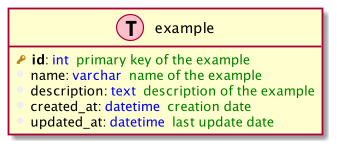
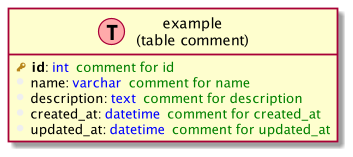
add table comment

diff --git a/driver/mysql_test.go b/driver/mysql_test.go
@@ -1,0 +1,29 @@
+package driver
+
+import (
+	"testing"
+
+	"github.com/stretchr/testify/assert"
+)
+
+func TestMysql_Parse(t *testing.T) {
+	ddl := `create table user (
+		id int(11) not null auto_increment,
+		name varchar(255) not null comment '名称',
+		primary key (id)
+	) comment '用户表' engine=innodb default charset=utf8 `
+
+	d := &Mysql{}
+	tables, err := d.Parse(ddl)
+	assert.Nil(t, err)
+	assert.Equal(t, 1, len(tables))
+	assert.Equal(t, 2, len(tables[0].Columns))
+	assert.Equal(t, "user", tables[0].Name)
+	assert.Equal(t, `用户表`, tables[0].Comment)
+	assert.Equal(t, "id", tables[0].Columns[0].Name)
+	assert.Empty(t, tables[0].Columns[0].Comment)
+	assert.True(t, tables[0].Columns[0].IsPrimaryKey)
+	assert.Equal(t, "name", tables[0].Columns[1].Name)
+	assert.Equal(t, `"名称"`, tables[0].Columns[1].Comment)
+	assert.False(t, tables[0].Columns[1].IsPrimaryKey)
+}

diff --git a/driver/mysql.go b/driver/mysql.go
@@ -31,6 +31,12 @@ func (m *Mysql) Parse(ddl string) ([]Table, error) {
 			Columns: make([]Column, 0, len(createTable.Columns)),
 		}
 
+		for _, option := range createTable.Options {
+			if option.Type == sqlparser.TableOptionComment {
+				table.Comment = option.StrValue
+			}
+		}
+
 		var primaryKeyName string
 		for _, constraint := range createTable.Constraints {
 			if constraint.Type == sqlparser.ConstraintPrimaryKey {

diff --git a/driver/driver.go b/driver/driver.go
@@ -13,5 +13,6 @@ type Column struct {
 
 type Table struct {
 	Name    string
+	Comment string
 	Columns []Column
 }

diff --git a/README.md b/README.md
@@ -11,39 +11,25 @@ ddl2plantuml is a tool to generate plantuml ER diagram from database ddl.
 create a sql file, for example:
 ```sql
 create table example (
-    id int not null auto_increment comment 'primary key of the example',
-    name varchar(255) not null comment 'name of the example',
-    description text not null comment 'description of the example',
-    created_at datetime not null default current_timestamp comment 'creation date',
-    updated_at datetime not null default current_timestamp on update current_timestamp comment 'last update date',
-    primary key (id)
-);
+   id int not null auto_increment comment 'comment for id',
+   name varchar(255) not null comment 'comment for name',
+   description text not null comment 'comment for description',
+   created_at datetime not null default current_timestamp comment 'comment for created_at',
+   updated_at datetime not null default current_timestamp on update current_timestamp comment 'comment for updated_at',
+   primary key (id)
+) comment 'table comment';
 ```
 
 run the command:
 ```sh
 $ ddl2plantuml -f example.sql
 ```
-generate the plantuml file:
-```plantuml
-@startuml
-
-table( example ) {
-    primary_key( id ): type( int )  comment( "primary key of the example" ) 
-    column( name ): type( varchar )  comment( "name of the example" ) 
-    column( description ): type( text )  comment( "description of the example" ) 
-    column( created_at ): type( datetime )  comment( "creation date" ) 
-    column( updated_at ): type( datetime )  comment( "last update date" ) 
-}
-
-@enduml
-```
 screenshot  
 ![Screenshot.png](Screenshot.png)
 
 ### Installation
 - download the latest release from [Release](https://github.com/whoisix/ddl2plantuml/releases)
-- docker run, need replace file directory and file name
+- docker run. replace file directory and file name
     ```sh
     $ docker run -v {{ddlpath}}:/var  whoisix/ddl2plantuml -f /var/{{ddlfile}}  -o /var 
     ```
@@ -74,5 +60,7 @@ GLOBAL OPTIONS:
    --output value, -o value    output directory (default: ".")
    --help, -h                  show help (default: false)
    --version, -v               print the version (default: false)
-
 ```
+
+### Reference
+[wangyuheng/ddl2plantuml](https://github.com/wangyuheng/ddl2plantuml)
